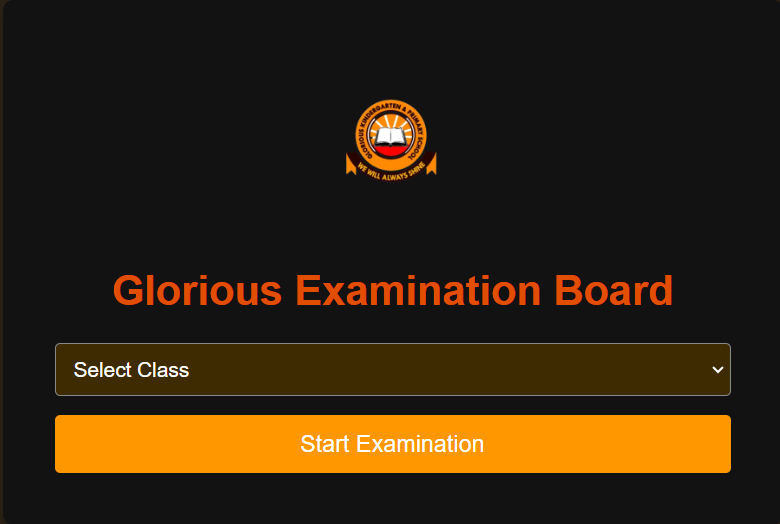
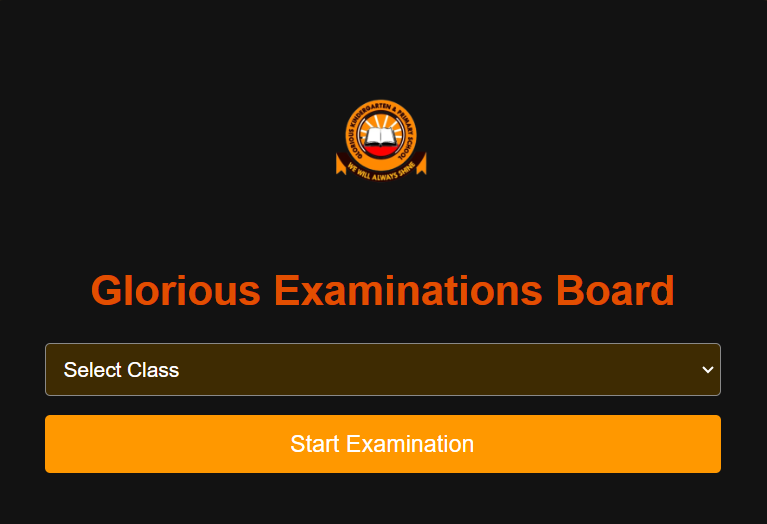
Add files via upload

diff --git a/examinations.html b/examinations.html
@@ -101,7 +101,7 @@
 <body>
     <div class="welcome-card">
         <img src="schoologo-2-150x150.png" alt="School Logo" class="school-logo">
-        <h1>Glorious Examination Board</h1>
+        <h1>Glorious Examinations Board</h1>
         <form id="credentialsForm">
             <select id="classSelect" required>
                 <option value="" disabled selected>Select Class</option>
